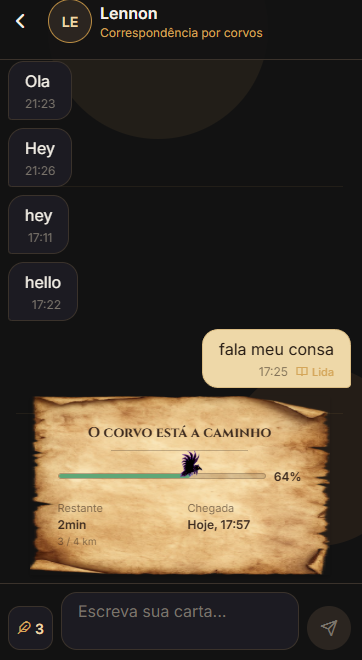
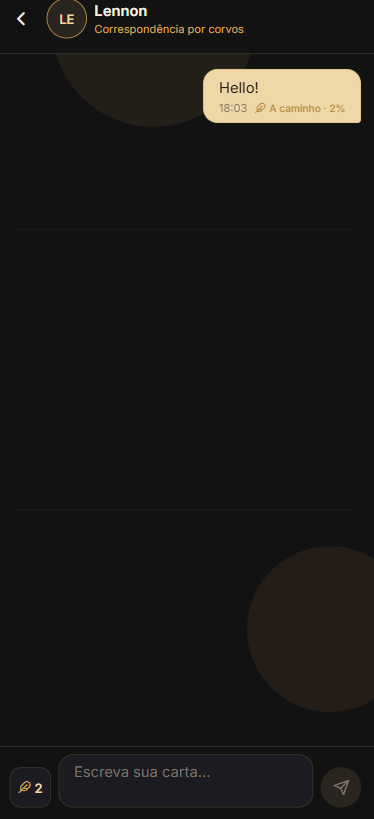
docs: update README

diff --git a/README.md b/README.md
@@ -31,19 +31,36 @@ O projeto foi criado como um laboratório para estudo de arquitetura de software
 <table>
   <tr>
     <td align="center" valign="top" width="33%">
-      <img src="./docs/screenshots/login.png" width="260" alt="Tela de login do Corvo-Zap"/>
+      <img src="./docs/screenshots/login.png" width="180" alt="Tela de login"/>
       <br/>
       <sub>Login</sub>
     </td>
     <td align="center" valign="top" width="33%">
-      <img src="./docs/screenshots/chats.png" width="260" alt="Listagem de correspondências"/>
+      <img src="./docs/screenshots/chats-empty.png" width="180" alt="Lista vazia de correspondências"/>
+      <br/>
+      <sub>Lista vazia</sub>
+    </td>
+    <td align="center" valign="top" width="33%">
+      <img src="./docs/screenshots/chats.png" width="180" alt="Listagem de correspondências"/>
       <br/>
       <sub>Correspondências</sub>
     </td>
+  </tr>
+  <tr>
     <td align="center" valign="top" width="33%">
-      <img src="./docs/screenshots/chat.png" width="260" alt="Conversa com rastreamento do corvo"/>
+      <img src="./docs/screenshots/messengers.png" width="180" alt="Busca de mensageiros"/>
       <br/>
-      <sub>Conversa</sub>
+      <sub>Mensageiros</sub>
+    </td>
+    <td align="center" valign="top" width="33%">
+      <img src="./docs/screenshots/chat-empty.png" width="180" alt="Conversa sem cartas"/>
+      <br/>
+      <sub>Conversa vazia</sub>
+    </td>
+    <td align="center" valign="top" width="33%">
+      <img src="./docs/screenshots/chat.png" width="180" alt="Conversa com corvo a caminho"/>
+      <br/>
+      <sub>Corvo a caminho</sub>
     </td>
   </tr>
 </table>
